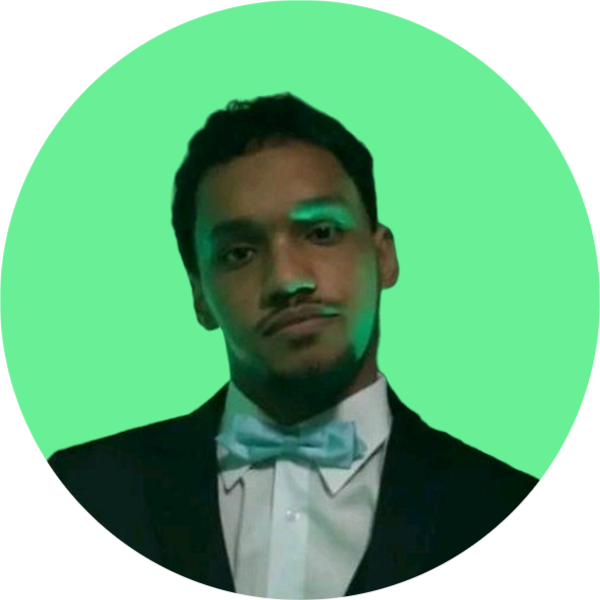
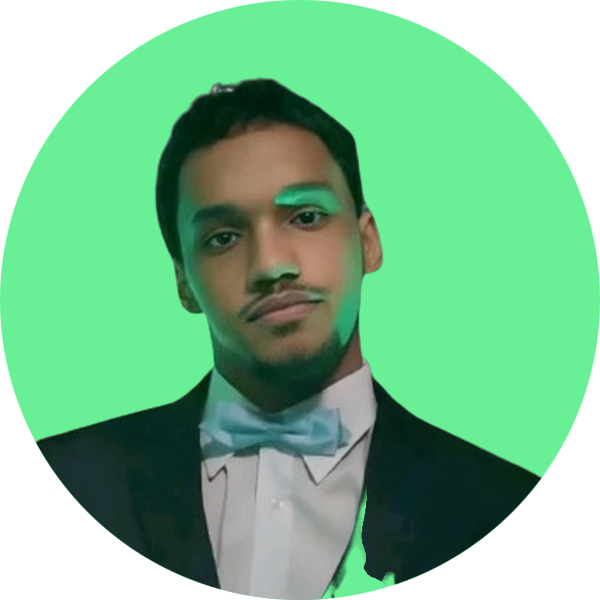
Perfil trocado

diff --git a/index.html b/index.html
@@ -93,7 +93,7 @@
             </div>
 
             <div id="banner">
-                <img style="width:600px; height:600px;" src="src/img/fotoPerfil.png" alt="Foto de perfil">
+                <img style="width:750; height:600px;" src="src/img/fotoPerfil.png" alt="Foto de perfil">
             </div>
         </section>
 
